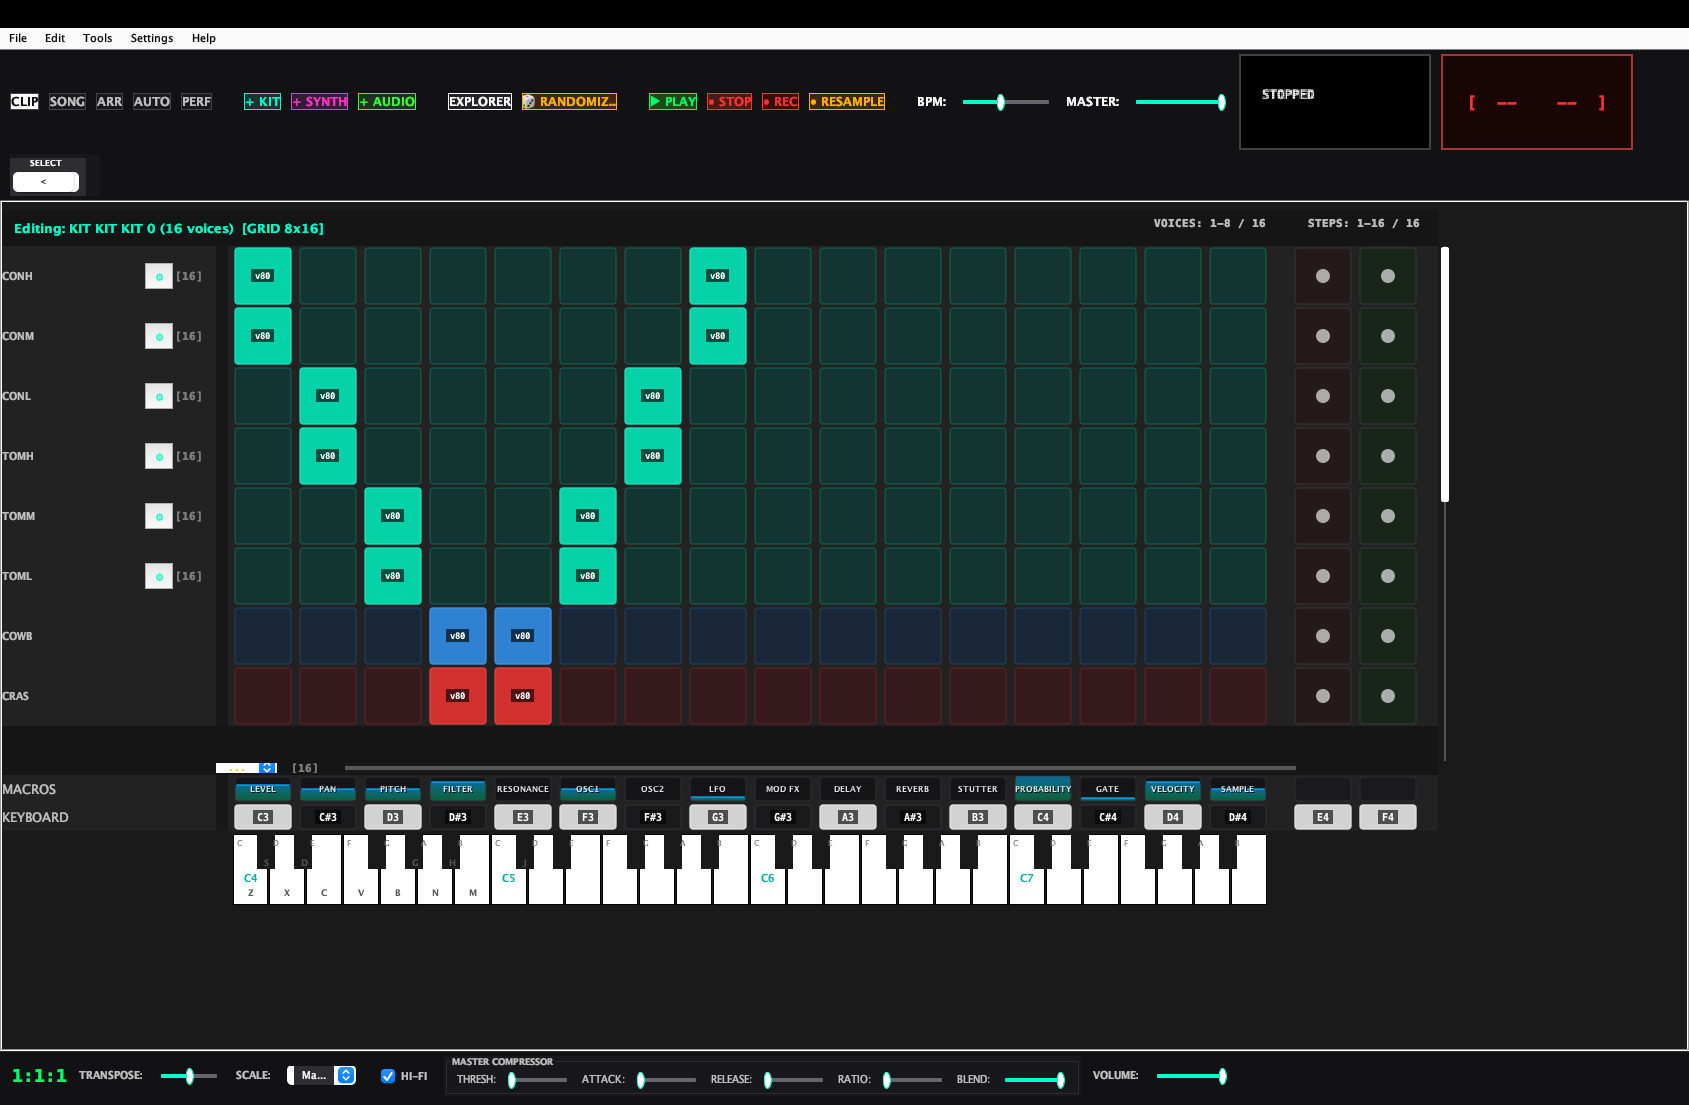
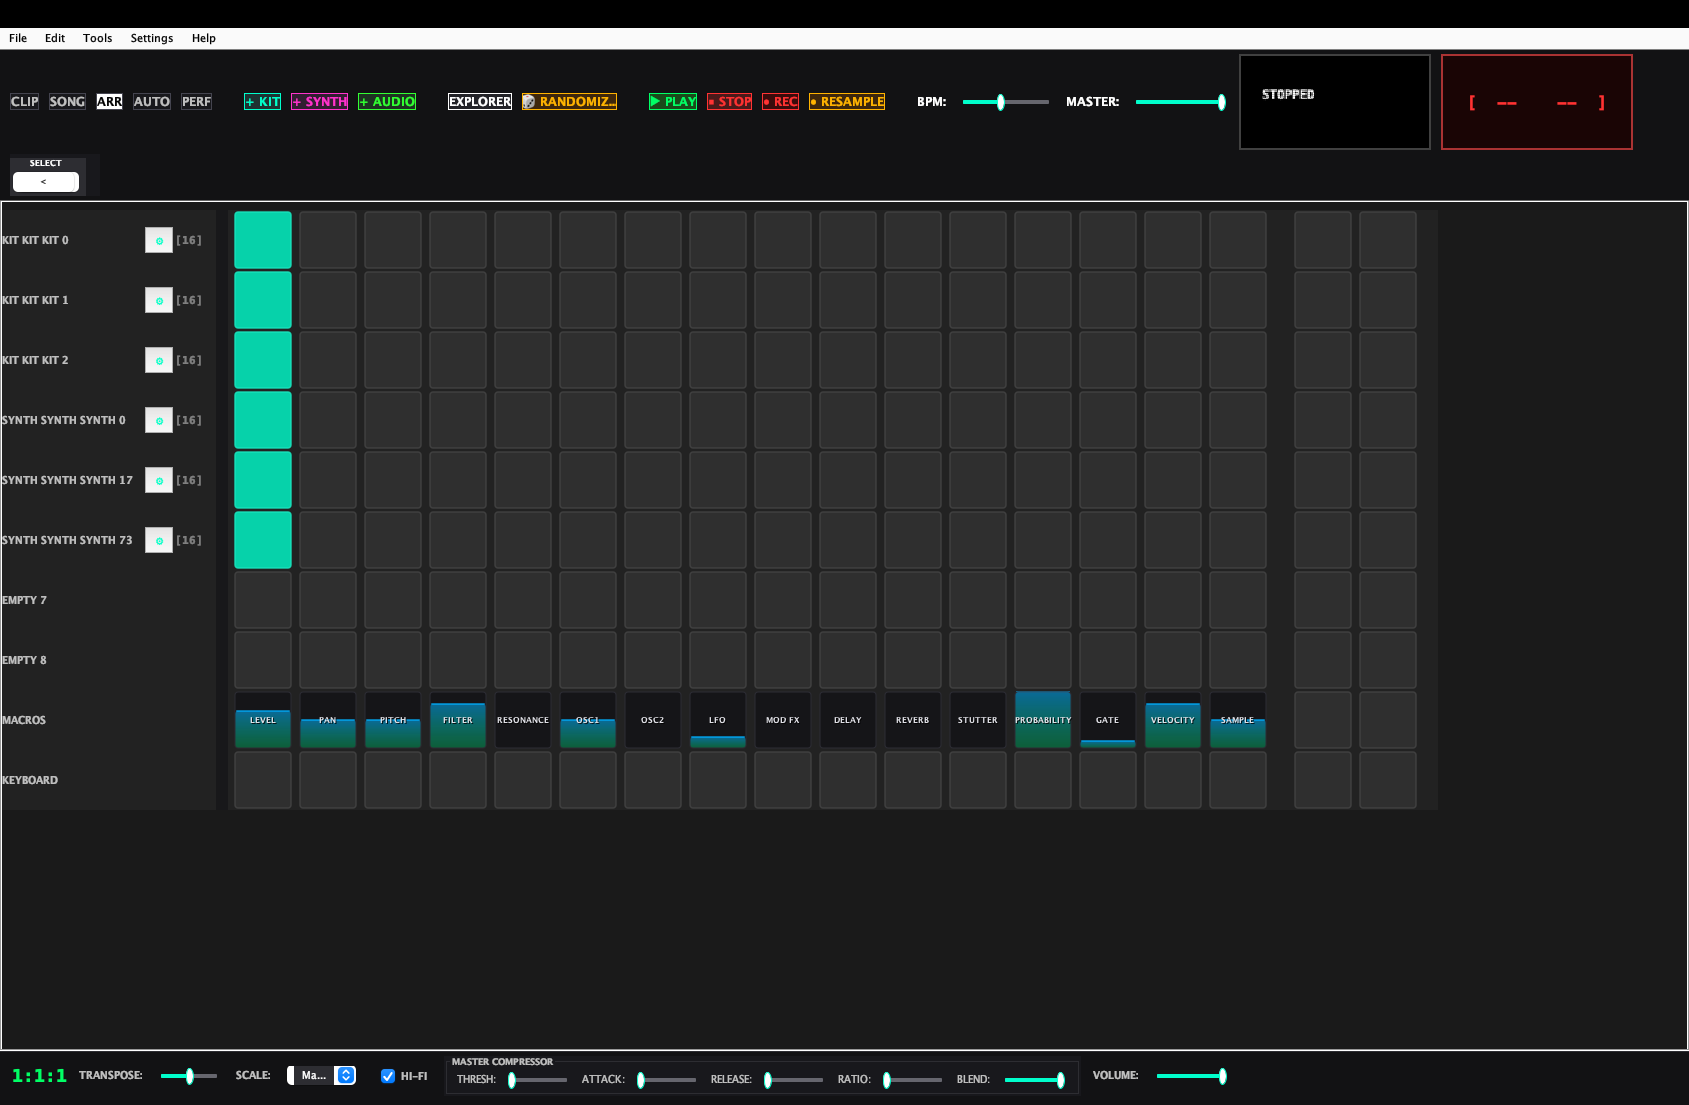
feat: implement main grid automation overview and editor screenshots, expose workspace view getters, and write detailed guidebook automation chapters

diff --git a/src/main/java/org/chuck/deluge/ui/SwingScreenshotGenerator.java b/src/main/java/org/chuck/deluge/ui/SwingScreenshotGenerator.java
@@ -57,6 +57,40 @@ public class SwingScreenshotGenerator {
                     });
                 Thread.sleep(500);
 
+                // 2b. Capture Automation Overview Matrix Grid!
+                System.out.println("[Screenshot] Switching to Automation Overview workspace...");
+                SwingUtilities.invokeAndWait(
+                    () -> {
+                      app.setWorkspaceView("AUTOMATION");
+                      app.getAutoPanel().setAutoOverviewMode(true);
+                      app.repaint();
+                    });
+                Thread.sleep(1500);
+                SwingUtilities.invokeAndWait(
+                    () -> captureComponent(app, "deluge_grid_automation_overview"));
+                Thread.sleep(1000);
+
+                // 2c. Capture Automation Detail Editor Grid!
+                System.out.println(
+                    "[Screenshot] Switching to Automation Detail Editor workspace...");
+                SwingUtilities.invokeAndWait(
+                    () -> {
+                      app.getAutoPanel().setAutoOverviewMode(false);
+                      app.repaint();
+                    });
+                Thread.sleep(1500);
+                SwingUtilities.invokeAndWait(
+                    () -> captureComponent(app, "deluge_grid_automation_editor"));
+                Thread.sleep(1000);
+
+                // Restore active display back to standard CLIP view before proceeding!
+                SwingUtilities.invokeAndWait(
+                    () -> {
+                      app.setWorkspaceView("CLIP");
+                      app.repaint();
+                    });
+                Thread.sleep(500);
+
                 // 3. Open and capture Randomizer Suite Dialog
                 System.out.println("[Screenshot] Spawning Delugeator Randomizer JDialog...");
                 final SwingRandomizerDialog[] randBox = new SwingRandomizerDialog[1];

diff --git a/src/main/java/org/chuck/deluge/ui/SwingGridPanel.java b/src/main/java/org/chuck/deluge/ui/SwingGridPanel.java
@@ -887,6 +887,14 @@ public class SwingGridPanel extends JPanel {
     refresh();
   }
 
+  public boolean isAutoOverviewMode() {
+    return autoOverviewMode;
+  }
+
+  public void setAutoOverviewMode(boolean overview) {
+    this.autoOverviewMode = overview;
+  }
+
   public org.chuck.deluge.model.ProjectModel getProjectModel() {
     return projectModel;
   }
@@ -4697,8 +4705,8 @@ public class SwingGridPanel extends JPanel {
     stepHeader.setLayout(new BoxLayout(stepHeader, BoxLayout.X_AXIS));
     stepHeader.setBackground(new Color(0x15, 0x15, 0x15));
     stepHeader.setMaximumSize(new Dimension(3000, 20));
-    int lw = Math.max(60, Math.min(140, getWidth() / 12));
-    stepHeader.add(Box.createRigidArea(new Dimension(lw + 91, 20)));
+    int topLw = Math.max(60, Math.min(140, getWidth() / 12));
+    stepHeader.add(Box.createRigidArea(new Dimension(topLw + 91, 20)));
     for (int c = 0; c < stepCount; c++) {
       JLabel stepNum = new JLabel(String.valueOf(c + 1), javax.swing.SwingConstants.CENTER);
       stepNum.setPreferredSize(new Dimension(padSz, 18));
@@ -4902,8 +4910,8 @@ public class SwingGridPanel extends JPanel {
     stepHeader.setLayout(new BoxLayout(stepHeader, BoxLayout.X_AXIS));
     stepHeader.setBackground(new Color(0x15, 0x15, 0x15));
     stepHeader.setMaximumSize(new Dimension(3000, 20));
-    int pw = Math.max(60, Math.min(140, getWidth() / 12));
-    stepHeader.add(Box.createRigidArea(new Dimension(pw + 17, 20)));
+    int topPw = Math.max(60, Math.min(140, getWidth() / 12));
+    stepHeader.add(Box.createRigidArea(new Dimension(topPw + 17, 20)));
     for (int c = 0; c < stepCount; c++) {
       JLabel stepNum = new JLabel(String.valueOf(c + 1), javax.swing.SwingConstants.CENTER);
       stepNum.setPreferredSize(new Dimension(padSz, 18));

diff --git a/src/main/java/org/chuck/deluge/ui/SwingDelugeApp.java b/src/main/java/org/chuck/deluge/ui/SwingDelugeApp.java
@@ -1844,6 +1844,18 @@ public class SwingDelugeApp extends JFrame {
     return clipPanel;
   }
 
+  public SwingGridPanel getAutoPanel() {
+    return autoPanel;
+  }
+
+  public void setWorkspaceView(String viewName) {
+    activeViewMode = viewName;
+    if (topBar != null) topBar.selectViewModeButton(viewName);
+    cardLayout.show(centerCardPanel, viewName);
+    revalidate();
+    repaint();
+  }
+
   public SwingTopBarPanel getTopBar() {
     return topBar;
   }

diff --git a/src/main/resources/docs/DELUGE_GUIDEBOOK.md b/src/main/resources/docs/DELUGE_GUIDEBOOK.md
@@ -40,7 +40,22 @@ The central focus of the Deluge Workstation is the multi-lane visual step sequen
   * **Repeat (Stutter)**: Subdivide a single grid step into automatic stutter retriggers (1x, 2x, 4x, 8x speed) for trap-style rolls.
 * **Quantized Playback Head**: A moving vertical white indicator line tracks the JNI playhead position across columns in real-time, matching standard system clocks.
 
-### 1.2 Step Parameter Properties, Probability & Fill Conditions
+### 1.2 Grid Automation Overview & Detail Editor Views
+
+The main sequencer pads grid can be toggled to **`AUTOMATION`** view mode. This view provides two distinct, visual perspective layouts:
+
+```carousel
+![Automation Overview Grid Workspace](images/deluge_grid_automation_overview.png)
+<!-- slide -->
+![Automation Detail Editor Grid Workspace](images/deluge_grid_automation_editor.png)
+```
+
+1. **AUTOMATION OVERVIEW Grid Mode (`deluge_grid_automation_overview.png`)**: Lists all synthesizer/track automatable parameters vertically (rows). Pads represent sequence columns step ticks: a step pad glows in solid green if it houses active automated points for that row's parameter, letting you scan entire automation states at a single glance!
+2. **AUTOMATION DETAIL EDITOR Grid Mode (`deluge_grid_automation_editor.png`)**: Selecting a specific parameter row in Overview mode opens the dedicated per-step value editor! The 8 grid rows act as value bands (from `0-15` up to `112-127`). You draw step-by-step values directly on the physical pads: a pad glows in bright cyan indicating the parameter value at that specific sequencer step!
+
+---
+
+### 1.3 Step Parameter Properties, Probability & Fill Conditions
 
 Double-clicking a sequence step opens our dedicated, high-contrast **`Step Properties`** JDialog. This provides precise, standard-compliant step parameters and random fill rules:
 
@@ -63,7 +78,7 @@ Double-clicking a sequence step opens our dedicated, high-contrast **`Step Prope
 
 ---
 
-### 1.3 Play Direction Modes (Forward, Reverse, Ping-Pong, Random)
+### 1.4 Play Direction Modes (Forward, Reverse, Ping-Pong, Random)
 
 Tracks can be configured to walk the step pointers in multiple structural pathways, parsed dynamically by the JNI timing clock:
 * **FORWARD**: The standard grid walk (from step 1 to step 16, wrapping back to 1).